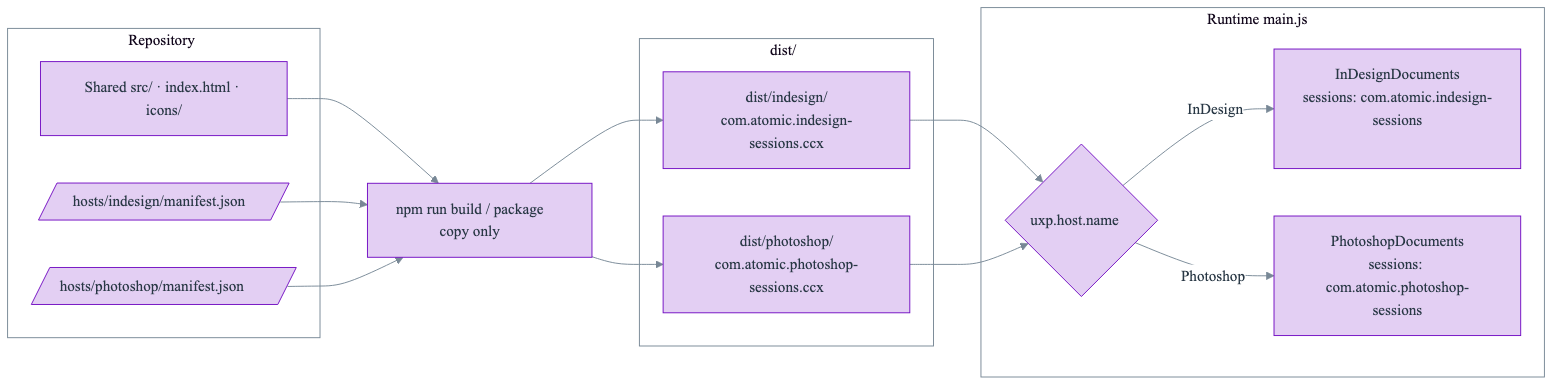
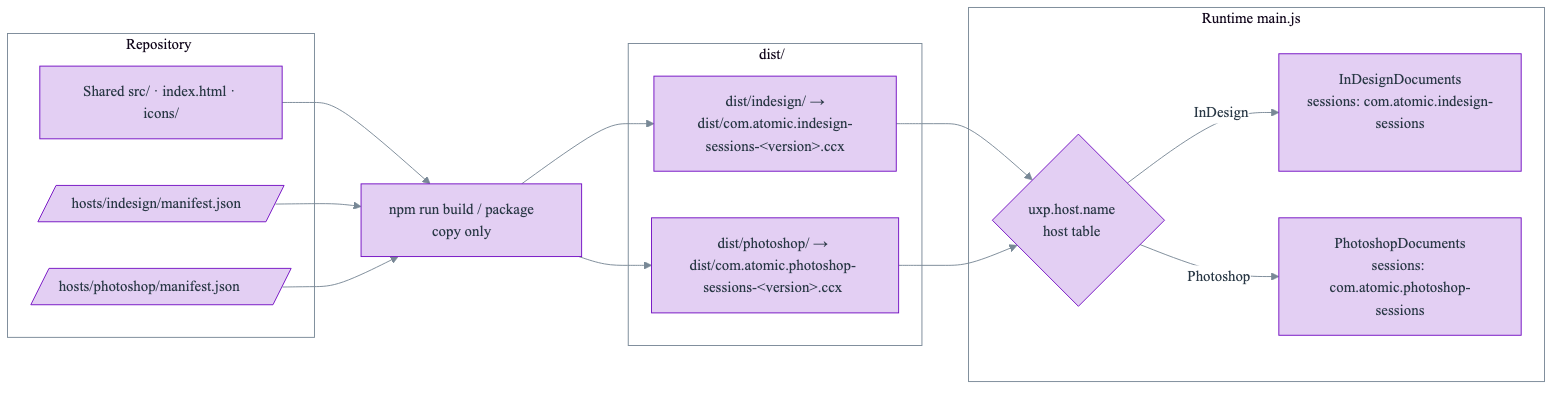
docs: resolve ADR-002 review findings (plugin-id source, amendment scope, open-time prompts)

diff --git a/docs/adrs/ADR-002-photoshop-sessions-plugin/ADR-002-photoshop-sessions-plugin-0.0.1.md b/docs/adrs/ADR-002-photoshop-sessions-plugin/ADR-002-photoshop-sessions-plugin-0.0.1.md
@@ -4,7 +4,7 @@
 **Date**: 2026-11-12
 **Deciders**: Scott Lewis
 **Version**: 0.0.1
-**Amends**: [ADR-001 v0.0.3](../ADR-001-indesign-uxp-sessions-plugin/ADR-001-indesign-uxp-sessions-plugin-0.0.3.md) §1 (host and platform: one manifest, no build step) and §4 (Host Integration contract). All other ADR-001 decisions — session format, storage rules, workflows, panel UI, edge cases — apply unchanged to both hosts.
+**Amends**: [ADR-001 v0.0.3](../ADR-001-indesign-uxp-sessions-plugin/ADR-001-indesign-uxp-sessions-plugin-0.0.3.md) — §1 (host and platform: one manifest, no build step), §2 (storage folder generalized from the InDesign plugin id to the running plugin's id), §4 (Host Integration contract), its Rationale statement that the folder loads directly in the UXP Developer Tool with no build, and its Consequences note that packages come from the UXP Developer Tool. All other ADR-001 decisions — session format, workflows, panel UI, edge cases — apply unchanged to both hosts. ADR-001's text is not revised; its pointer document notes that ADR-002 amends it, and ADR-002 governs wherever the two differ.
 
 ## Context
 
@@ -46,7 +46,7 @@ Photoshop 26.0 (Photoshop 2025) is the minimum, matching the InDesign 2025 floor
 
 ### 3. Storage per plugin
 
-The sessions folder becomes `<appData>/com.atomic/<plugin id>/sessions/`. InDesign keeps `com.atomic.indesign-sessions/sessions/`, so existing InDesign sessions are untouched and nothing is migrated. Photoshop uses `com.atomic.photoshop-sessions/sessions/`. Sessions are therefore never shared between hosts, which also prevents opening `.indd` files in Photoshop or images in InDesign. `resolveSessionsLocation` takes the plugin folder name as a parameter.
+The sessions folder becomes `<appData>/com.atomic/<plugin id>/sessions/`. InDesign keeps `com.atomic.indesign-sessions/sessions/`, so existing InDesign sessions are untouched and nothing is migrated. Photoshop uses `com.atomic.photoshop-sessions/sessions/`. Sessions are therefore never shared between hosts, which also prevents opening `.indd` files in Photoshop or images in InDesign. `resolveSessionsLocation` takes the plugin folder name as a parameter; the value is the plugin id from the host table in §5.
 
 ### 4. Host Integration: one documents adapter per host
 
@@ -58,13 +58,20 @@ The documents contract becomes:
 `InDesignDocuments` already satisfies it (its synchronous `openDocument` result is awaited the same way). New `PhotoshopDocuments` (`src/host/PhotoshopDocuments.js`):
 
 - Lists `app.documents`; `path` is null when `Document.path` is `""` or the document is a cloud document; `modified` is `!saved`.
-- Opens one file per call: `getEntryWithUrl("file:" + path)`, then `app.open(entry)` inside `core.executeAsModal`. Any failure — missing file, damaged file, or Photoshop already busy in another modal operation — rejects, and the workflow counts that file as failed and continues.
+- Opens one file per call: `getEntryWithUrl("file:" + path)`, then `app.open(entry)` inside `core.executeAsModal` with `interactive: true`, so Photoshop's own open-time prompts (for example a color-profile mismatch or missing fonts) appear and are resolved by the user — the same policy as ADR-001 §6 for InDesign. Whether every such prompt appears inside a plugin's modal scope is confirmed during in-host verification. Any failure — missing file, damaged file, or Photoshop already busy in another modal operation — rejects, and the workflow counts that file as failed and continues.
 
 `SessionWorkflows.openSession` awaits `openDocument`, so an asynchronous failure is counted as failed rather than opened.
 
 ### 5. Host selection in the composition root
 
-`src/main.js` reads `require("uxp").host.name` and requires only that host's module (`indesign` or `photoshop`) — requiring the other host's module throws. It then builds the matching documents adapter and passes the plugin folder name to `resolveSessionsLocation`. An unrecognized host fails at load with a clear error rather than guessing. Nothing else in `src/` knows which host it runs in.
+`src/main.js` holds one host table, the single source of each host's plugin id:
+
+| `uxp.host.name` | Plugin id (storage folder) | Documents adapter | Host module |
+| --- | --- | --- | --- |
+| `InDesign` | `com.atomic.indesign-sessions` | `InDesignDocuments` | `require("indesign").app` |
+| `Photoshop` | `com.atomic.photoshop-sessions` | `PhotoshopDocuments` | `require("photoshop")` (`app`, `core`) |
+
+`main.js` reads `require("uxp").host.name`, looks up the entry, requires only that host's module (requiring the other host's module throws), builds the adapter, and passes the entry's plugin id to `resolveSessionsLocation`. An unrecognized host fails at load with a clear error rather than guessing. A manifest test asserts that each table entry's plugin id equals the `id` in that host's manifest, so the InDesign entry cannot drift from `com.atomic.indesign-sessions` and hide existing sessions. Nothing else in `src/` knows which host it runs in.
 
 <!-- diagram: host-build-layout | Hosts, build, and runtime adapter selection (source: diagrams/host-build-layout.mmd) -->
 ![Hosts, build, and runtime adapter selection](diagrams/host-build-layout.png)
@@ -119,7 +126,8 @@ Adds generated source and makes `src/` differ per package. Runtime selection fro
 ## Code being removed
 
 - Root `manifest.json` — replaced by `hosts/indesign/manifest.json`; the UXP Developer Tool and packaging use `dist/<host>/`.
-- The single-host wiring in `src/main.js` (top-level `require("indesign")` and the fixed InDesign storage folder) — replaced by host selection.
+- The single-host wiring in `src/main.js` (its top-level `require("indesign")`) — replaced by the host table.
+- The fixed InDesign folder constant `kPLUGIN_FOLDER` in `src/sessions/storageLocation.js` — replaced by the plugin-folder parameter.
 - README instructions that load the repository root in the UXP Developer Tool.
 
 `com.sessions` is not modified by this decision.

diff --git a/docs/adrs/imp/ADR-002-photoshop-sessions-plugin-implementation-plan.md b/docs/adrs/imp/ADR-002-photoshop-sessions-plugin-implementation-plan.md
@@ -18,8 +18,8 @@ Two pull requests against `develop`, each from its own `claude/` branch, reviewe
 | Session Catalog | `resolveSessionsLocation({ homeDirectory, platform, pluginFolder })`; callers pass the plugin id as the folder. |
 | Host Integration | New `src/host/PhotoshopDocuments.js` (contract in ADR-002 §4). `InDesignDocuments` unchanged. |
 | Session Workflows | `openSession` awaits `openDocument`. |
-| Panel UI / composition root | `src/main.js` selects the host from `uxp.host.name`, requires only that host's module, builds the adapter and storage location; unknown host throws. |
-| Packaging | `hosts/indesign/manifest.json` (moved from the root, unchanged except location), `hosts/photoshop/manifest.json`, `scripts/build.mjs` (`npm run build`, `npm run package`), `dist/` ignored. Root `manifest.json` removed. |
+| Panel UI / composition root | `src/main.js` host table (`uxp.host.name` → plugin id, adapter, host module); requires only that host's module, builds the adapter and storage location; unknown host throws. |
+| Packaging | `hosts/indesign/manifest.json` (moved from the root, unchanged except location), `hosts/photoshop/manifest.json`, `scripts/build.mjs` (`npm run build`, `npm run package`), `dist/` ignored. Root `manifest.json` removed. `eslint.config.js` ignores `dist/**` (ESLint does not read `.gitignore`); Jest only matches `test/`. |
 
 ## Implementation order (commit checklist)
 
@@ -28,8 +28,9 @@ Two pull requests against `develop`, each from its own `claude/` branch, reviewe
 - [ ] `feat:` `resolveSessionsLocation` takes the plugin folder; tests for both plugin ids on macOS and Windows.
 - [ ] `feat:` `PhotoshopDocuments` with Jest tests against a fake reproducing the observed Photoshop behavior (string `path`, `""` for untitled, cloud identifier, entry-only `app.open`, modal scope).
 - [ ] `feat:` host selection in `main.js`.
-- [ ] `build:` per-host manifests, `scripts/build.mjs`, npm scripts, `.gitignore`; manifest tests cover both manifests (shared `VERSION`, distinct plugin ids, `host.app`/`minVersion`, identical permissions, panel id matches `main.js`, every referenced file present in the built folder).
+- [ ] `build:` per-host manifests, `scripts/build.mjs`, npm scripts, `.gitignore`; manifest tests cover both manifests (shared `VERSION`, distinct plugin ids, each `main.js` host-table plugin id equal to that host manifest's `id`, `host.app`/`minVersion`, identical permissions, panel id matches `main.js`, every referenced file present in the built folder).
 - [ ] `test:` in-host suite for both hosts: shared check core with thin entry scripts (`verify.idjs`, `verify.psjs`); `npm run test:host -- --host indesign|photoshop`. Photoshop runs via `open -a`; cleanup closes only suite-created documents (by id or by path inside the run's work folder).
+- [ ] `docs:` ADR-001 pointer document notes the amendment by ADR-002.
 - [ ] `docs:` README (both hosts, build and load instructions, storage folders) and version 0.3.0 (`VERSION`, `package.json`, `package-lock.json`, both manifests).
 
 ## Verification
